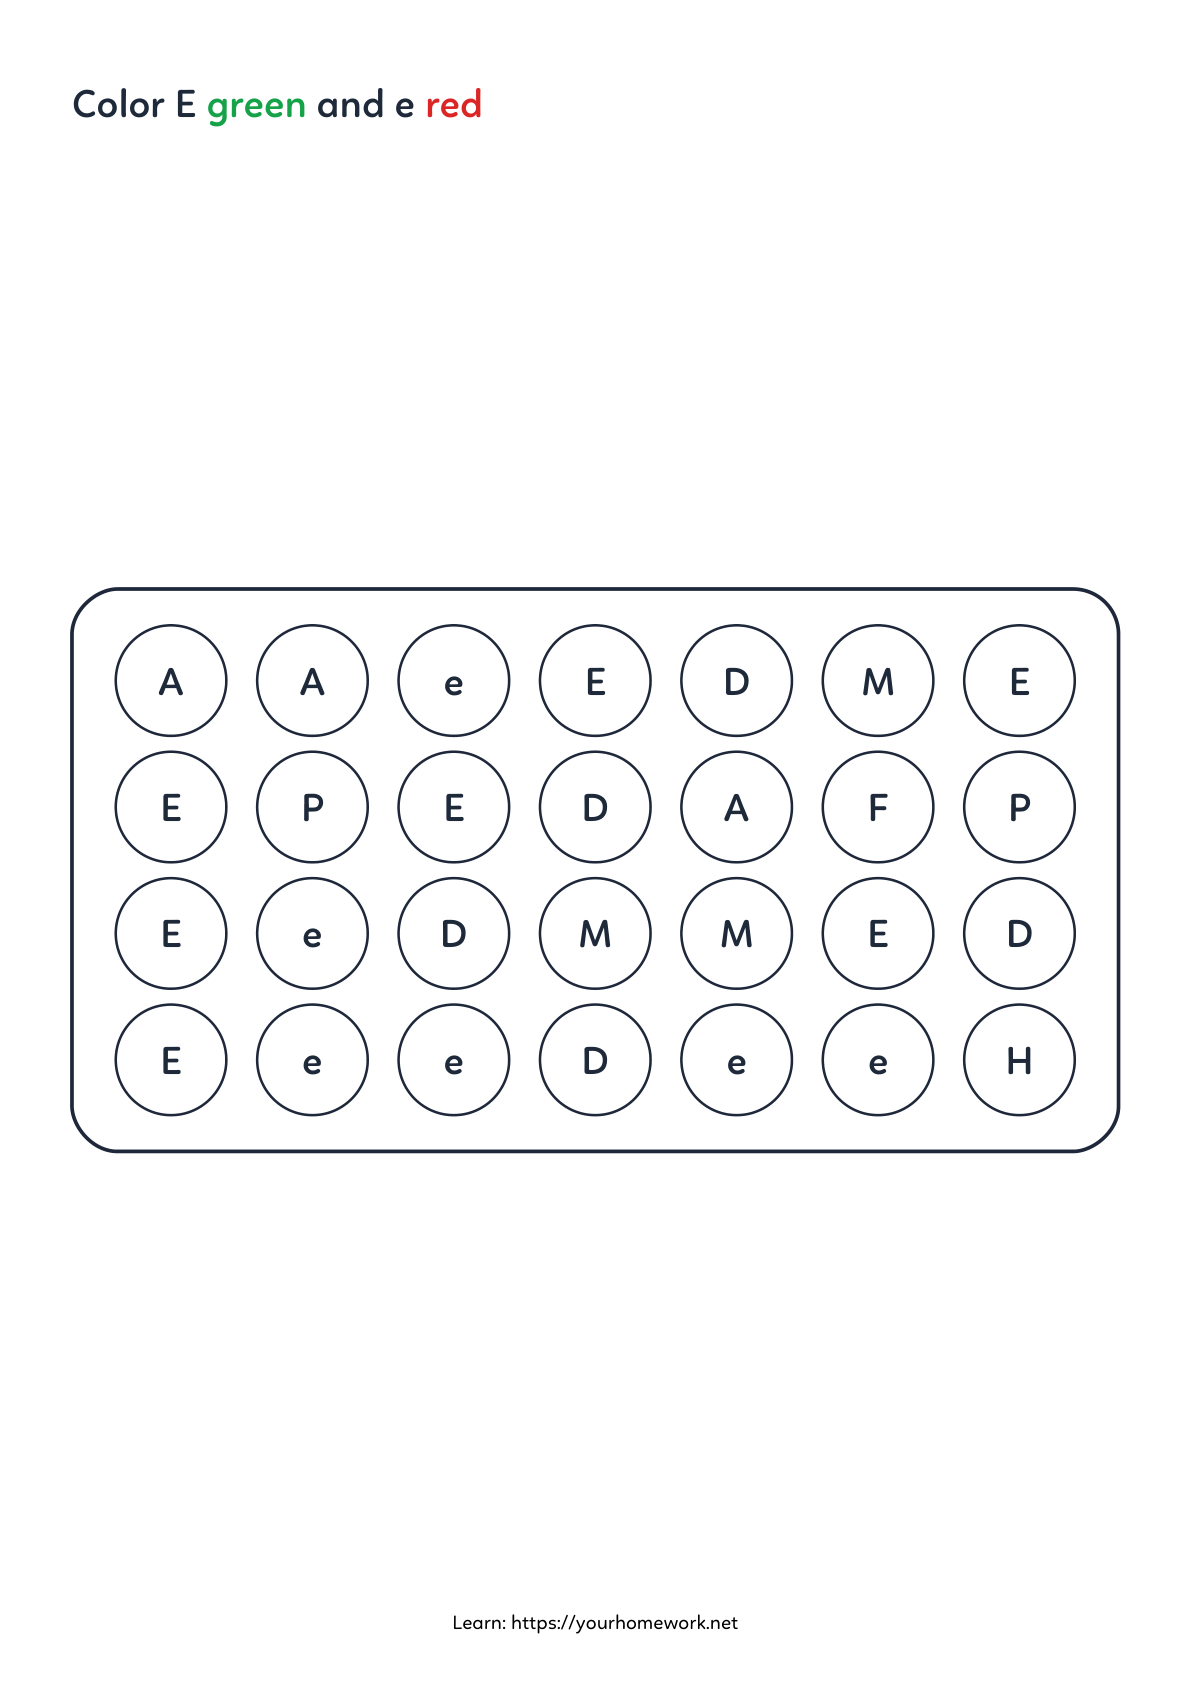
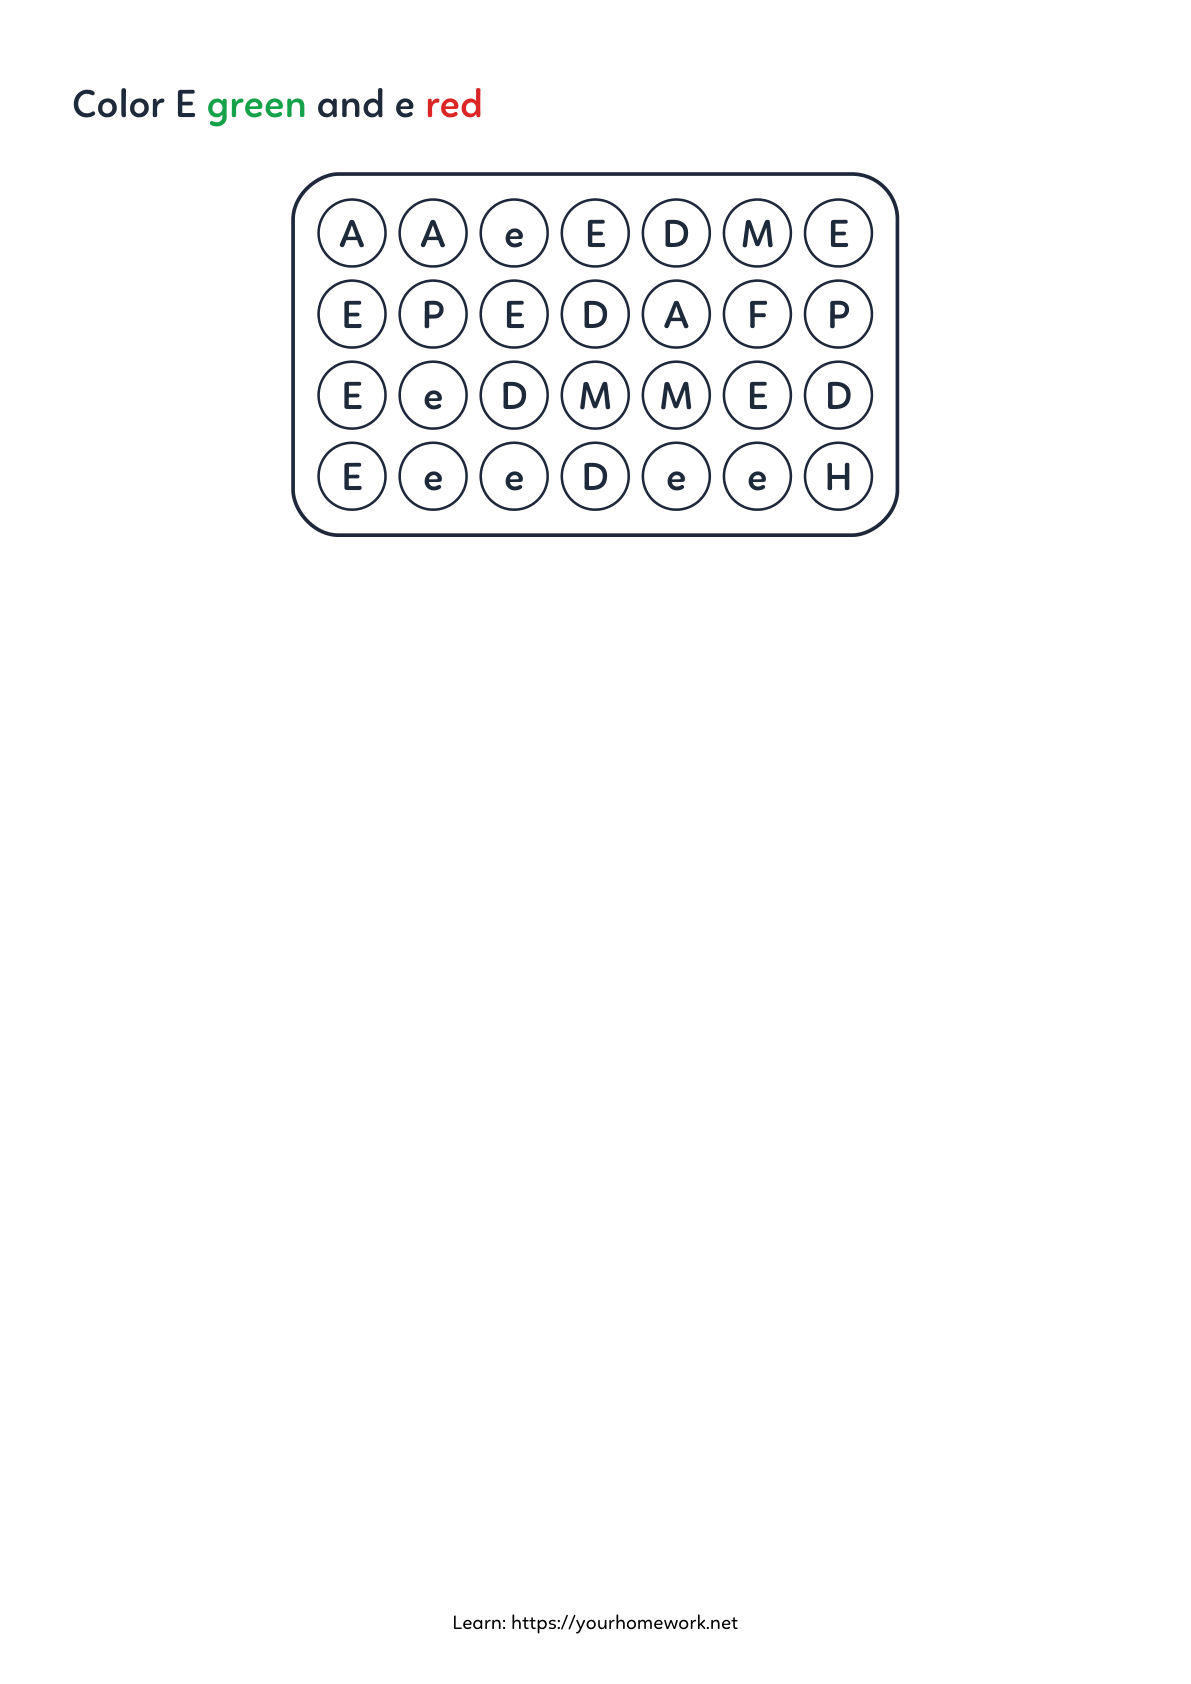
fix(worksheet-18): fix spacing 0pt alignment, moderate WS 9 circle sizing, and composite mode selection

diff --git a/src/utils/worksheetGenerator.ts b/src/utils/worksheetGenerator.ts
@@ -1265,35 +1265,50 @@ export function calculateType18Metrics(
   containerMaxHeightMm?: number
 ) {
   const defaultContainerW = isA5 ? 132 : 184.6;
-  const cardWidth = containerWidthMm || defaultContainerW;
+  const maxContainerW = containerWidthMm || defaultContainerW;
 
   const effectiveSpacing = spacingPt !== undefined ? spacingPt : 0;
   const spacingMm = effectiveSpacing * 0.352778;
   const isZero = effectiveSpacing === 0;
 
-  // Container padding: compact at 0pt, expands with spacing
-  const padX = outerBorder !== 'none' ? ((isZero ? 5.0 : 7.0) + spacingMm * 0.15) : 1.0;
-  const padY = outerBorder !== 'none' ? ((isZero ? 5.0 : 7.0) + spacingMm * 0.15) : 1.0;
+  // Base moderate circle diameter (WS 9 style: moderate padding enclosing letter)
+  // Single letter height is ~3.5-5mm. Diameter 9.2mm (A5) / 11.8mm (A4) gives balanced ~2.5-3.4mm padding.
+  const baseTargetDiameter = isA5 ? 9.2 : 11.8;
 
-  const innerW = cardWidth - 2 * padX;
-  const cellW = innerW / cols;
+  // Equal horizontal and vertical gaps between circles
+  // At spacing 0pt: compact 2.0mm (A5) / 2.5mm (A4)
+  // Expands linearly with spacing setting
+  const baseGap = isA5 ? 2.0 : 2.5;
+  let curGapX = baseGap + spacingMm * 0.25;
+  let curGapY = baseGap + spacingMm * 0.25;
 
-  const maxCircleDiameterX = cellW * (isZero ? 0.90 : 0.82);
-  const baseTargetDiameter = isA5 ? 14.5 : 19.5;
-  const circleDiameter = Math.min(maxCircleDiameterX, baseTargetDiameter);
+  // Container padding: compact at 0pt, scales with spacing
+  let padX = outerBorder !== 'none' ? (isA5 ? 3.5 : 4.5) + spacingMm * 0.15 : 0;
+  let padY = outerBorder !== 'none' ? (isA5 ? 3.5 : 4.5) + spacingMm * 0.15 : 0;
+
+  // Containment check: ensure grid doesn't exceed printable/container width
+  let circleDiameter = baseTargetDiameter;
+  const maxAvailW = maxContainerW - 2 * padX;
+  const reqGridW = cols * circleDiameter + (cols - 1) * curGapX;
+  if (reqGridW > maxAvailW) {
+    const scaleFactor = Math.min(1.0, maxAvailW / reqGridW);
+    circleDiameter *= scaleFactor;
+    curGapX *= scaleFactor;
+    curGapY *= scaleFactor;
+  }
+
+  // Dimensions
+  const gridW = cols * circleDiameter + (cols - 1) * curGapX;
+  const gridH = rows * circleDiameter + (rows - 1) * curGapY;
+  const cardWidth = outerBorder !== 'none' ? (gridW + 2 * padX) : gridW;
+  const cardHeight = outerBorder !== 'none' ? (gridH + 2 * padY) : gridH;
   const circleRadius = circleDiameter / 2;
-
-  // Row gap between circle centers:
-  // At spacing 0 pt: tight (2.8mm A4, 2.0mm A5)
-  // At spacing > 0 pt: expands linearly with spacingMm
-  const baseGapBetweenCirclesY = isZero ? (isA5 ? 2.0 : 2.8) : ((isA5 ? 3.5 : 4.5) + spacingMm * 0.45);
-  const cellH = circleDiameter + baseGapBetweenCirclesY;
-  const gridH = cellH * rows;
-  const cardHeight = gridH + 2 * padY;
+  const cellW = circleDiameter + curGapX;
+  const cellH = circleDiameter + curGapY;
 
   // Font Scaling Protection:
-  // Circle interior safe zone is ~68% of diameter
-  const maxSafeFontPt = (circleDiameter * 0.68) / 0.352778;
+  // Circle interior safe zone is ~72% of diameter
+  const maxSafeFontPt = (circleDiameter * 0.72) / 0.352778;
   const effectiveCellFontSize = Math.min(fontSizePt, maxSafeFontPt);
 
   return {
@@ -1307,8 +1322,11 @@ export function calculateType18Metrics(
     cellH,
     circleDiameter,
     circleRadius,
+    gridW,
     gridH,
-    baseGapBetweenCirclesY,
+    gapX: curGapX,
+    gapY: curGapY,
+    baseGapBetweenCirclesY: curGapY,
     effectiveCellFontSize,
     spacingMm,
     isZero
@@ -1431,8 +1449,8 @@ export function drawType18ContainerAndGrid(
 
   // 2. Draw circles & letters (Referencing WS 9 style)
   for (const cell of cells) {
-    const cx = startX + padX + (cell.col + 0.5) * cellW;
-    const cy = startY + padY + (cell.row + 0.5) * cellH;
+    const cx = startX + padX + circleRadius + cell.col * cellW;
+    const cy = startY + padY + circleRadius + cell.row * cellH;
 
     if (highlightTarget === 'answer_key') {
       // Teacher Answer Key Mode: Fill circle with respective target color
@@ -6004,7 +6022,7 @@ export async function generateWorksheetPDF(options: WorksheetOptions, secondaryW
       }
 
       // 2. Metrics & Grid Generation
-      const topMargin = (showHeader && finalTitle) ? titleY + (isA5 ? 8 : 10) : margin + 4;
+      const topMargin = (showHeader && finalTitle) ? titleY + (isA5 ? 5 : 7) : margin + 4;
       const availWidth = printableWidth;
       const availHeight = printableHeight - (topMargin - margin) - (showFooter ? 8 : 4);
 
@@ -6028,14 +6046,14 @@ export async function generateWorksheetPDF(options: WorksheetOptions, secondaryW
         page
       );
 
-      // Centered position on page
+      // Horizontal centering; startY placed naturally below title header responsive to user's spacing
       const startX = margin + (availWidth - metrics.cardWidth) / 2;
-      const startY = topMargin + (availHeight - metrics.cardHeight) / 2;
+      const startY = topMargin + (isA5 ? 2.0 : 3.0) + (effectiveSpacing * 0.352778);
 
       drawType18ContainerAndGrid(
         doc,
         startX,
-        Math.max(topMargin, startY),
+        startY,
         gridData.cells,
         metrics,
         {

diff --git a/src/components/worksheet/CompositeSectionCard.tsx b/src/components/worksheet/CompositeSectionCard.tsx
@@ -497,14 +497,19 @@ export default function CompositeSectionCard({
                     14: { title: 'Circle the pictures that have letter V v' },
                     15: { title: 'Read the sentence and circle the correct picture.' },
                     16: { title: 'Look and circle the beginning sound' },
-                    17: { title: 'Look and color the words' }
+                    17: { title: 'Look and color the words' },
+                    18: { title: 'Color E green and e red' }
                   };
-                  const meta = defaultTitles[t.type];
+                  const meta = defaultTitles[t.type] || { title: t.title || t.name || 'Worksheet Section' };
                   const isType8 = t.type === 8;
                   const isType11 = t.type === 11;
+                  const isType18 = t.type === 18;
+                  const targetLtr = (section.type18TargetLetter || 'E').toUpperCase();
+                  const targetLtrLower = (section.type18TargetLetter || 'e').toLowerCase();
+                  const title18 = `Color ${targetLtr} ${section.type18ColorUpper || 'green'} and ${targetLtrLower} ${section.type18ColorLower || 'red'}`;
                   onUpdateSection(index, {
                     type: t.type,
-                    title: meta.title,
+                    title: isType18 ? title18 : meta.title,
                     blankMode: t.type === 4 ? (section.blankMode || 'vowels') : section.blankMode,
                     fontFamily: (isType8 || isType11) ? 'KG Primary Dots' : (section.fontFamily === 'KG Primary Dots' ? 'r0c0i Linotte' : section.fontFamily || 'r0c0i Linotte'),
                     fontSize: (isType8 || isType11) ? 22 : (section.fontSize === 22 ? 12 : section.fontSize || 12),

diff --git a/src/pages/WorksheetGenerator.tsx b/src/pages/WorksheetGenerator.tsx
@@ -302,9 +302,10 @@ export default function WorksheetGenerator() {
       14: { title: 'Circle the pictures that have letter V v' },
       15: { title: 'Read the sentence and circle the correct picture.' },
       16: { title: 'Look and circle the beginning sound' },
-      17: { title: 'Look and color the words' }
+      17: { title: 'Look and color the words' },
+      18: { title: 'Color E green and e red' }
     };
-    const meta = titles[defaultType];
+    const meta = titles[defaultType] || { title: 'Worksheet Section' };
     const newSec: UICompositeSection = {
       id: generateId(),
       type: defaultType,
